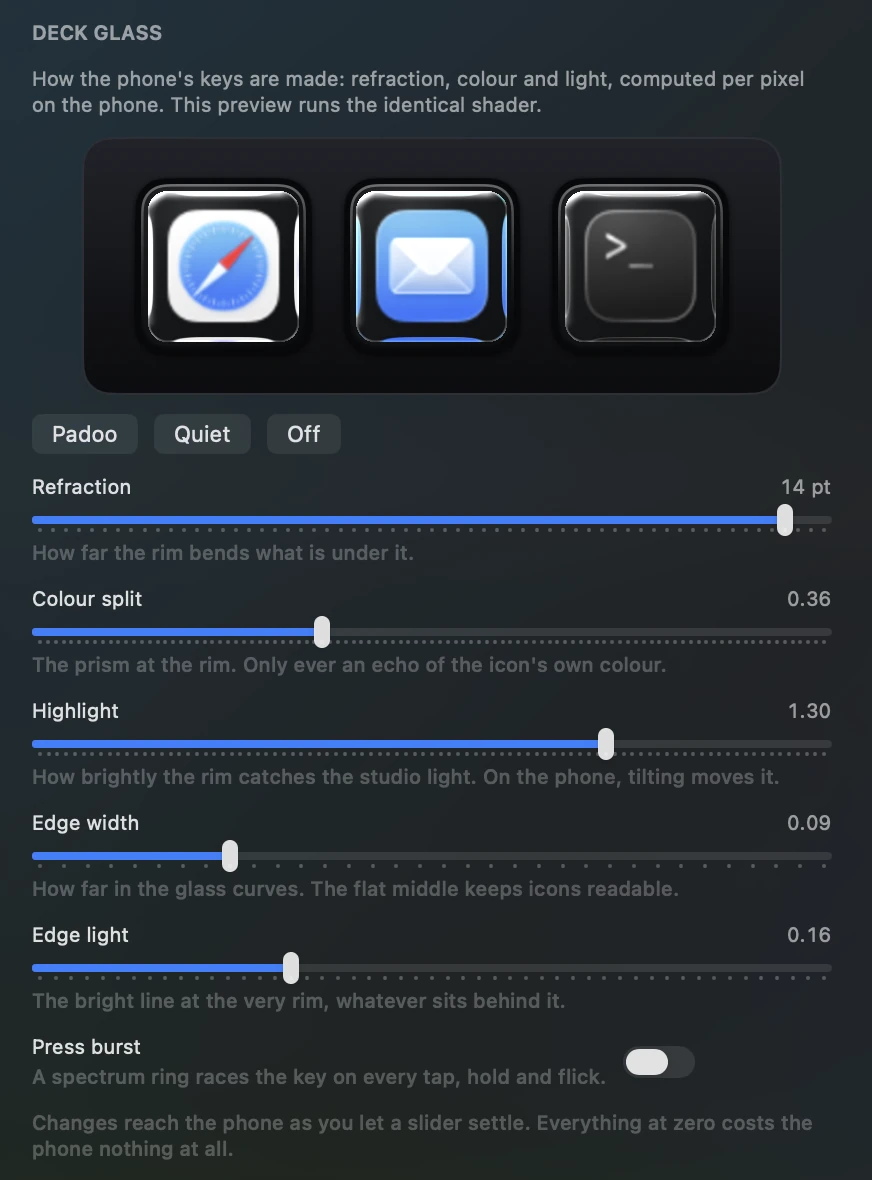
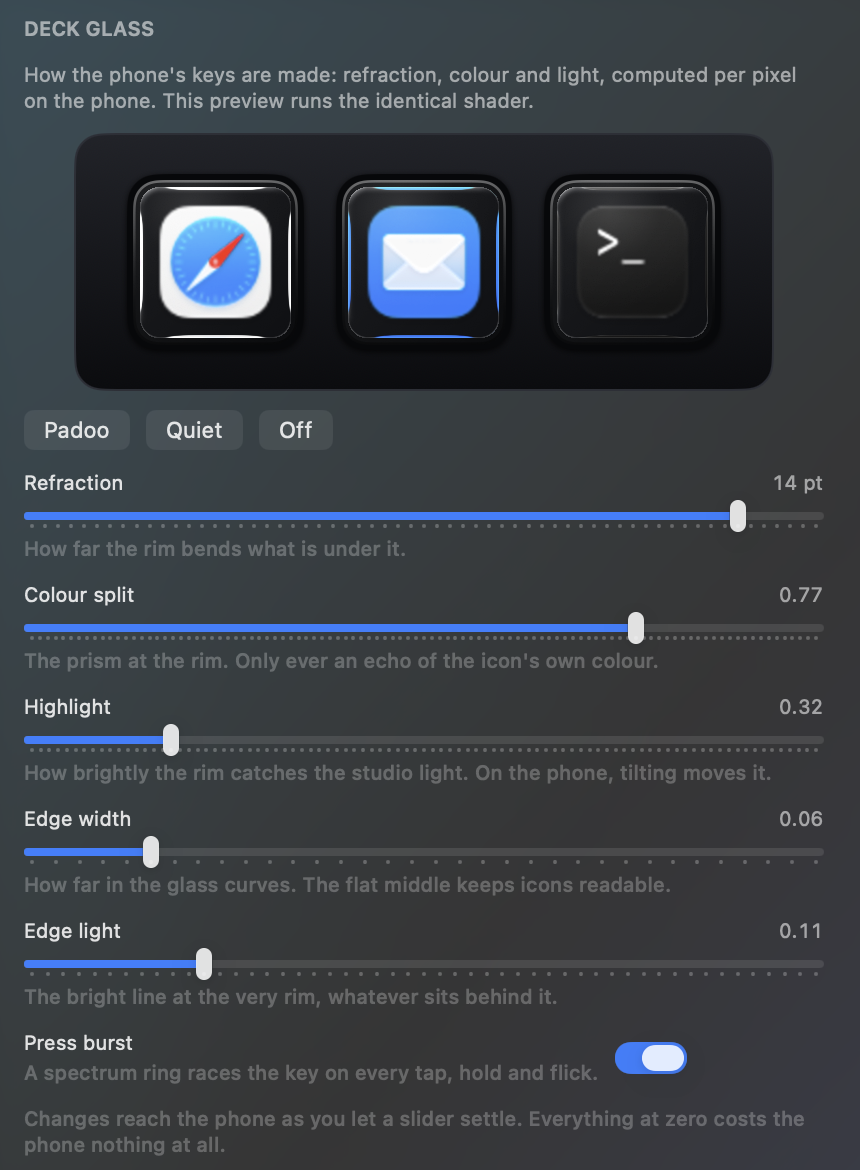
Refresh Padoo Mac screenshots for the published 1.3.3
Gestures (new two-column tab with Scrolling), deck glass (presets and
press burst, already described in the copy), trackpad looks and the
action library, captured from the published Mac 1.3.3 and encoded
lossless so settings text stays sharp. The Gestures row goes full width
so its screenshot shows at natural 2x size. Alt text updated to match;
no multi-computer content.

diff --git a/public/padoo/index.html b/public/padoo/index.html
@@ -129,6 +129,11 @@
   .row{display:grid;grid-template-columns:1fr 1fr;gap:clamp(28px,5vw,64px);align-items:center;
     margin-bottom:84px}
   .row:nth-child(even) .rtext{order:2}
+  /* A screenshot too wide for half the page: text above, image below at its
+     natural 2x size, so its settings text stays legible. */
+  .row.wide{grid-template-columns:1fr;justify-items:center}
+  .row.wide .rtext{order:0;max-width:680px}
+  .row.wide>div:last-child{width:100%}
   @media(max-width:860px){.row{grid-template-columns:1fr;gap:26px;margin-bottom:56px}
     .row:nth-child(even) .rtext{order:0}}
   .rtext h3{font-size:clamp(22px,3.2vw,30px);letter-spacing:-.025em;line-height:1.14;font-weight:800}
@@ -393,7 +398,7 @@
           <li>Sliders for brightness and volume, one per column</li>
         </ul>
       </div>
-      <div><div class="shot plain" style="max-width:365px"><img src="shots/crop-actions.webp" alt="The action library: mute mic, mute sound, camera preview and record screen." /></div></div>
+      <div><div class="shot plain" style="max-width:345px"><img src="shots/crop-actions.webp" alt="The action library: mute mic, mute sound, camera preview and record screen." /></div></div>
     </div>
 
     <div class="row">
@@ -418,7 +423,7 @@
           <li>The look reaches the phone the moment you pick it</li>
         </ul>
       </div>
-      <div><div class="shot plain" style="max-width:407px"><img src="shots/crop-looks.webp" alt="Six trackpad looks: Slate, Sketch, Blush, Midnight, Majestic and Ember." /></div></div>
+      <div><div class="shot plain" style="max-width:399px"><img src="shots/crop-looks.webp" alt="Six trackpad looks: Slate, Sketch, Blush, Midnight, Majestic and Ember." /></div></div>
     </div>
 
     <div class="row">
@@ -431,10 +436,10 @@
           <li>A spectrum ring on every press, if you want one</li>
         </ul>
       </div>
-      <div><div class="shot plain" style="max-width:436px"><img src="shots/crop-glass.webp" alt="Deck glass settings: a live preview of three glass keys above refraction, colour split, highlight, edge width and edge light sliders." /></div></div>
+      <div><div class="shot plain" style="max-width:430px"><img src="shots/crop-glass.webp" alt="Deck glass settings: a live preview of three glass keys, the Padoo, Quiet and Off presets, refraction, colour split, highlight, edge width and edge light sliders, and the press burst switch." /></div></div>
     </div>
 
-    <div class="row">
+    <div class="row wide">
       <div class="rtext">
         <h3>Nine thresholds, so it will be a perfect fit for you.</h3>
         <p>The sliders cover how far a finger may stray and still count as a tap, how long a hold waits before it turns into a drag, and how much of a swipe has to travel before it commits to a Space. Each one shows the shipped default beside your value, and one button restores them all.</p>
@@ -444,7 +449,7 @@
           <li>Reset to shipped values in one click</li>
         </ul>
       </div>
-      <div><div class="shot plain" style="max-width:432px"><img src="shots/gestures.webp" alt="Gesture tuning: nine sliders, each showing the current value beside the shipped default." /></div></div>
+      <div><div class="shot plain" style="max-width:788px;margin:0 auto"><img src="shots/gestures.webp" alt="Gestures settings: scroll acceleration and invert scroll direction above nine gesture sliders grouped into taps and clicks, hand resting, dragging and three-finger swipes, each beside its shipped value." /></div></div>
     </div>
 
   </div>
